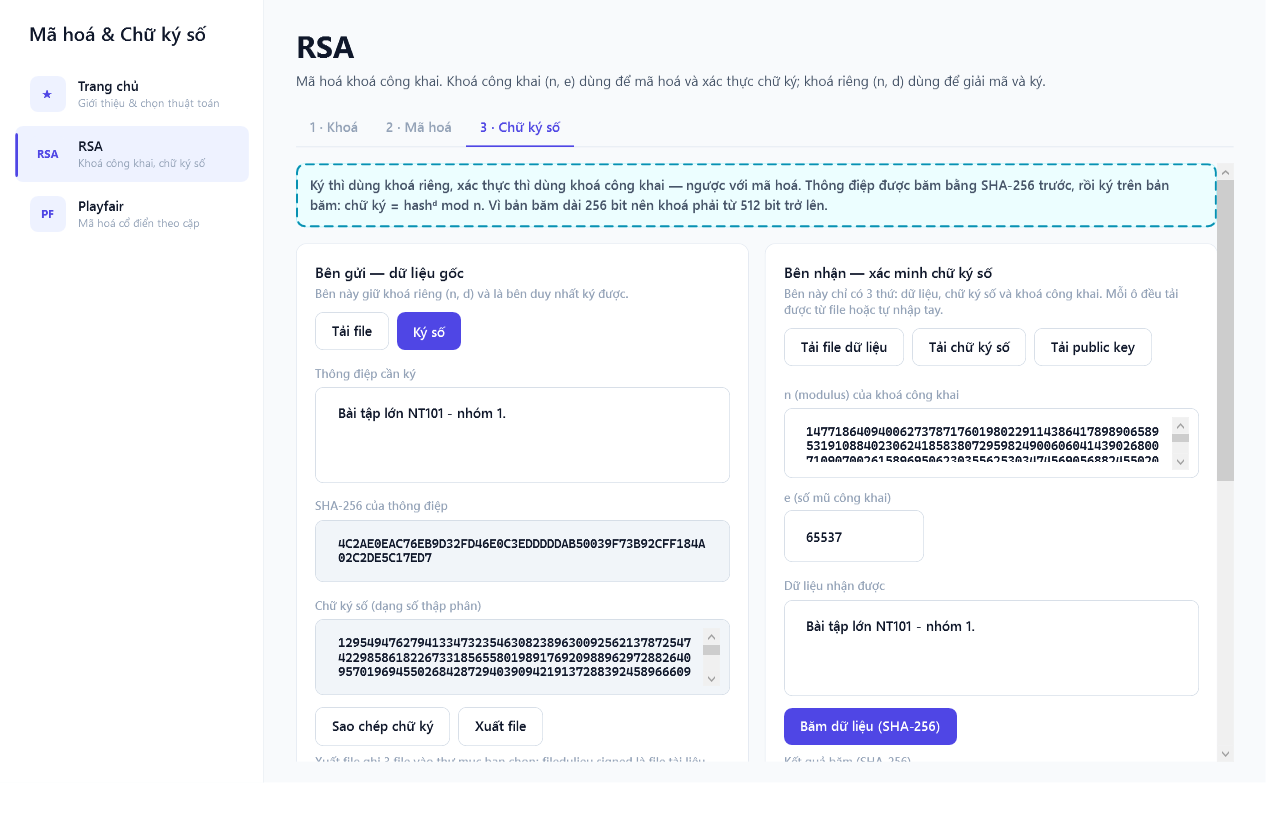
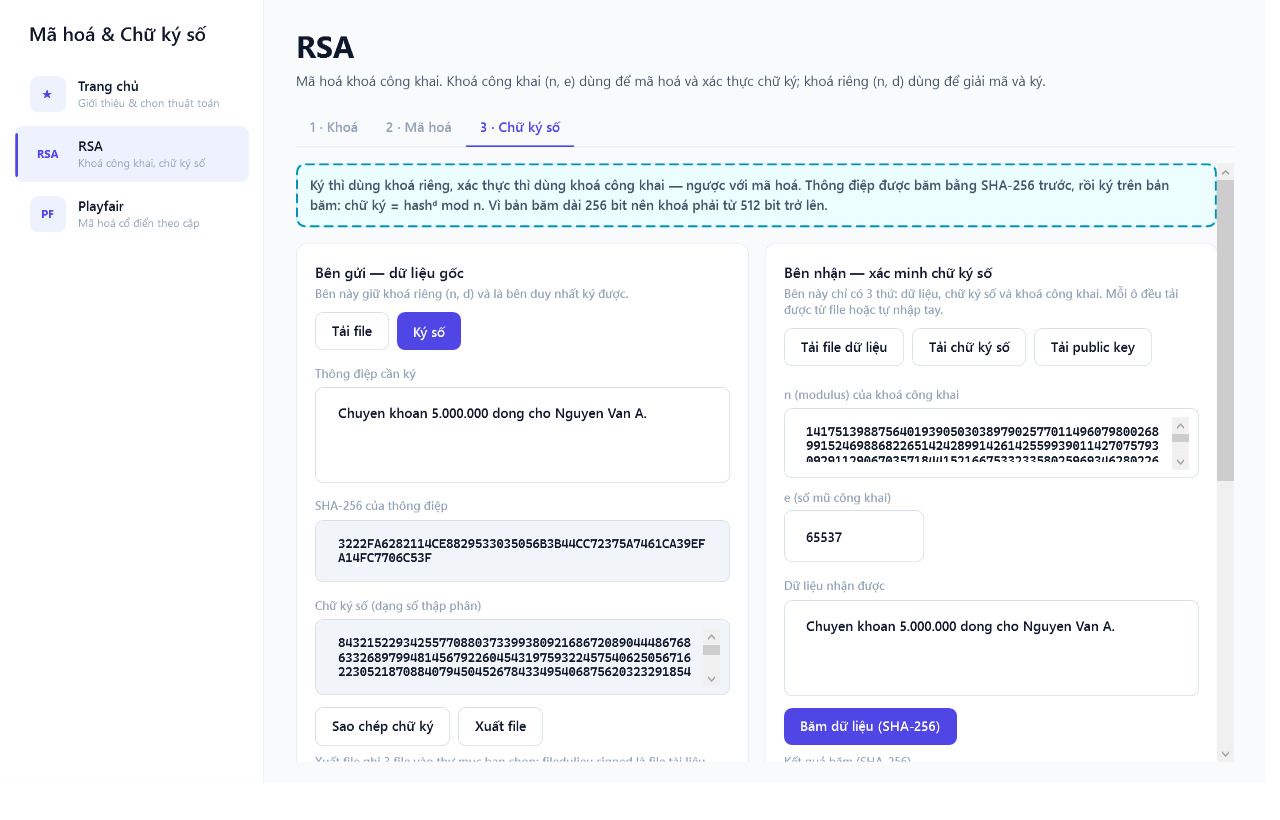
Treat this as a standalone app, not coursework
Every mention of the course is gone: no "NT101", no "giáo trình", no "bài
tập lớn", no "giảng viên" — in the README, in PROJECT_CONTEXT.md and
PRODUCT.md, in code comments, and in .gitignore.

Where a sentence leaned on the course for its reason, it now gives the
real one. 61/53/17 are the defaults because they are small primes you can
follow step by step, not because a textbook used them. The 5×5 Playfair
grid is the most common variant, not the one "in most textbooks". d comes
from φ(n) rather than λ(n) because φ(n) is the more familiar formula and
introduces no new concept.

"Điều đã biết là còn thiếu" is dropped from the README. Those two bullets
(no digram frequency analysis, signing text only) are internal scope
notes; PROJECT_CONTEXT.md already keeps them.

Four screenshots retaken with neutral sample data — "Xin chào" for the
encrypt tab, a bank-transfer sentence for the signature tab — so no image
carries the course name either.

The namespace and the repository name stay: renaming the namespace is a
refactor that changes nothing a user sees, and the repo name is not source
code.

Wording only. detect_changes reports 5 touched symbols (comments and UI
strings), 0 affected execution flows, risk low. Build clean, 521 tests
pass.

diff --git a/UI/Views/RsaView.xaml b/UI/Views/RsaView.xaml
@@ -36,7 +36,7 @@
                                                  IsChecked="{Binding KeyMode, Converter={StaticResource ValueEquals}, ConverterParameter=Auto}" />
                                 </StackPanel>
 
-                                <!-- Thủ công: p, q, e nhập tay. Mặc định 61/53/17 khớp ví dụ giáo trình. -->
+                                <!-- Thủ công: p, q, e nhập tay. Mặc định 61/53/17 — số nhỏ, dễ soi từng bước. -->
                                 <StackPanel Visibility="{Binding IsManualMode, Converter={StaticResource BoolToVisible}}">
                                     <Grid Margin="0,14,0,0">
                                         <Grid.ColumnDefinitions>

diff --git a/UI/Theme/Controls.xaml b/UI/Theme/Controls.xaml
@@ -155,7 +155,7 @@
     <!--
         RadioButton vẽ lại thành chip. Dùng thay ComboBox cho các lựa chọn ít
         phương án (chế độ khoá, độ dài khoá, định dạng hiển thị): mọi phương án
-        hiện sẵn nên giảng viên không phải bấm mở danh sách mới biết có gì.
+        hiện sẵn nên người dùng không phải bấm mở danh sách mới biết có gì.
     -->
     <Style x:Key="SegmentChip" TargetType="RadioButton">
         <Setter Property="FontFamily" Value="{StaticResource UiFont}" />

diff --git a/UI/ViewModels/RsaViewModel.cs b/UI/ViewModels/RsaViewModel.cs
@@ -113,9 +113,10 @@ public sealed class RsaViewModel : ViewModelBase
         DecryptSignatureCommand = new RelayCommand(DecryptSignature);
         VerifyCommand = new RelayCommand(Verify);
 
-        // Không tự tạo khoá lúc mở app. Ô p, q, e đã điền sẵn 61, 53, 17 (khớp ví dụ
-        // giáo trình) nên chỉ cần bấm "Tạo khoá" là có khoá — nhưng bấm hay không là
-        // việc của người dùng, app không tự làm hộ rồi thông báo một việc chưa ai yêu cầu.
+        // Không tự tạo khoá lúc mở app. Ô p, q, e đã điền sẵn 61, 53, 17 (hai số nguyên
+        // tố nhỏ, đủ để xem từng bước) nên chỉ cần bấm "Tạo khoá" là có khoá — nhưng bấm
+        // hay không là việc của người dùng, app không tự làm hộ rồi thông báo một việc
+        // chưa ai yêu cầu.
     }
 
     public ICommand GenerateKeyCommand { get; }
@@ -222,8 +223,9 @@ public sealed class RsaViewModel : ViewModelBase
         {
             if (_key is null)
             {
-                return "Chưa có khoá. Hai ô p và q ở trên đã điền sẵn 61 và 53 theo ví dụ "
-                    + "giáo trình — bấm \"Tạo khoá\" là dùng được ngay. Muốn khoá ký được thì "
+                return "Chưa có khoá. Hai ô p và q ở trên đã điền sẵn 61 và 53 — hai số "
+                    + "nguyên tố nhỏ, đủ để xem từng bước biến đổi. Bấm \"Tạo khoá\" là dùng "
+                    + "được ngay. Muốn khoá ký được thì "
                     + "chọn chế độ Tự động, 1024 bit, rồi bấm \"Tạo khoá\". Lần trước đã lưu "
                     + "khoá ra file thì bấm \"Tải khoá từ file\" để dùng lại đúng khoá đó.";
             }

diff --git a/Core/Rsa/RsaModels.cs b/Core/Rsa/RsaModels.cs
@@ -19,8 +19,8 @@ namespace RSA_Playfair_NT101.Core;
 /// <param name="Phi">Hàm Euler <c>φ(n) = (p-1)(q-1)</c>.</param>
 /// <param name="Lambda">
 /// Hàm Carmichael <c>λ(n) = lcm(p-1, q-1)</c>. Chuẩn PKCS#1 thực tế dùng giá trị
-/// này để cho <c>d</c> nhỏ hơn. Ứng dụng tính <c>d</c> theo <c>φ(n)</c> cho khớp
-/// giáo trình, nhưng vẫn hiện <c>λ(n)</c> để đối chiếu.
+/// này để cho <c>d</c> nhỏ hơn. Ứng dụng tính <c>d</c> theo <c>φ(n)</c> — công thức
+/// quen hơn và không thêm khái niệm mới — nhưng vẫn hiện <c>λ(n)</c> để đối chiếu.
 /// </param>
 public sealed record RsaKeyPair(
     BigInteger N,

diff --git a/Core/Playfair/PlayfairModels.cs b/Core/Playfair/PlayfairModels.cs
@@ -5,7 +5,7 @@ public enum PlayfairVariant
 {
     /// <summary>
     /// Ma trận 5×5 kinh điển. Bảng chữ Latin có 26 chữ mà ô chỉ có 25, nên
-    /// <c>J</c> bị gộp vào <c>I</c>. Đây là biến thể trong hầu hết giáo trình.
+    /// <c>J</c> bị gộp vào <c>I</c>. Đây là biến thể phổ biến nhất.
     /// </summary>
     Grid5x5MergeIJ,
 

diff --git a/README.md b/README.md
@@ -1,11 +1,11 @@
-# RSA & Playfair — NT101
+# RSA & Playfair
 
 App desktop Windows minh hoạ hai thuật toán mã hoá: **RSA** (hiện đại, khoá công khai) và
 **Playfair** (cổ điển, mã hoá theo cặp ký tự).
 
-Bài tập cùng đề thường chỉ hiện input và output, nên người chấm không thấy được con số ở giữa đến
-từ đâu, và cũng không thấy được thuật toán yếu ở chỗ nào. App này hiện **từng bước biến đổi**, và
-nói thẳng những giới hạn của thuật toán thay vì che.
+Phần lớn bản minh hoạ hai thuật toán này chỉ hiện input và output, nên người xem không thấy được
+con số ở giữa đến từ đâu, và cũng không thấy được thuật toán yếu ở chỗ nào. App này hiện **từng
+bước biến đổi**, và nói thẳng những giới hạn của thuật toán thay vì che.
 
 ![Trang chủ](docs/images/01-home.png)
 
@@ -24,8 +24,9 @@ Không cần cài gì thêm — không có dependency NuGet nào cho app, không
 
 ### 1. Sinh khoá
 
-Chọn **Auto** (512 / 1024 / 2048 bit) hoặc **Manual** (`p`, `q`, `e` — mặc định 61, 53, 17, khớp
-ví dụ giáo trình). Auto chạy async, có progress và huỷ được vì 2048 bit mất 5–20 giây.
+Chọn **Auto** (512 / 1024 / 2048 bit) hoặc **Manual** (`p`, `q`, `e` — mặc định 61, 53, 17, bộ số
+nhỏ kinh điển, dễ soi từng bước). Auto chạy async, có progress và huỷ được vì 2048 bit mất 5–20
+giây.
 
 Sáu ô giá trị hiện đủ `p`, `q`, `n`, `φ(n)`, `e`, `d` — không có con số nào bị ẩn.
 
@@ -123,7 +124,7 @@ dung bind thẳng vào `SelectedNav.Content`.
    định: cùng bản rõ + cùng khoá → cùng bản mã). Chuẩn thật dùng PKCS#1 v1.5 hoặc OAEP.
 2. **Chặn cứng khoá dưới 512 bit khi ký.** Bản băm SHA-256 là số 256 bit, phải nhỏ hơn `n`. Không
    lách bằng `H mod n` vì như vậy nhiều bản tin khác nhau cho cùng một giá trị ký.
-3. **Dùng `φ(n) = (p−1)(q−1)`, không dùng `λ(n)`.** Khớp giáo trình phổ biến.
+3. **Dùng `φ(n) = (p−1)(q−1)`, không dùng `λ(n)`.** Công thức quen hơn và không thêm khái niệm mới.
 4. **Header 4 byte trong container bản mã** thay cho padding, để round-trip không mất byte nào.
 5. **Playfair chèn ký tự đệm ngay trong lúc chia cặp**, không phải một lượt quét trước đó. Chèn
    trước thì ký tự vừa chèn lại tạo ra cặp trùng mới ở phía sau (`AAA` là ví dụ).
@@ -148,16 +149,6 @@ theo thiết kế.
 ```bash
 dotnet test
 ```
-
-## Điều đã biết là còn thiếu
-
-- **Phân tích tần suất cặp ký tự của Playfair không làm.** Muốn nói "cặp này bất thường" thì phải
-  có bảng tần suất digram tiếng Anh làm mốc; số liệu đó không có trong dự án, và bịa một bảng để
-  giao diện có thêm biểu đồ thì con số hiện lên không dựa trên gì. Điểm yếu của Playfair vì vậy
-  được nói bằng chữ (bảng chữ chỉ 25/36 ô, mỗi cặp luôn ánh xạ về đúng một cặp) chứ không bằng
-  biểu đồ.
-- App chỉ ký được **nội dung văn bản**: file chọn ở hộp thoại được đọc dưới dạng text, không ký
-  file nhị phân.
 
 Chi tiết hơn: `PROJECT_CONTEXT.md` (kiến trúc, lý do, trade-off) và `CHANGELOG.md` (lịch sử thay
 đổi).
